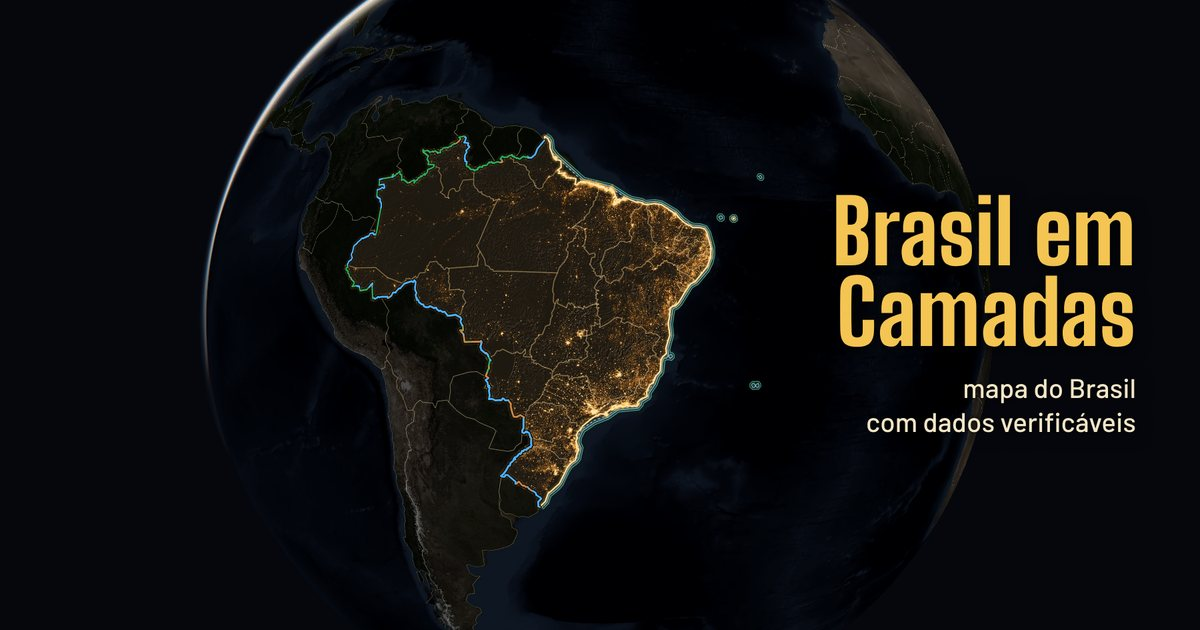
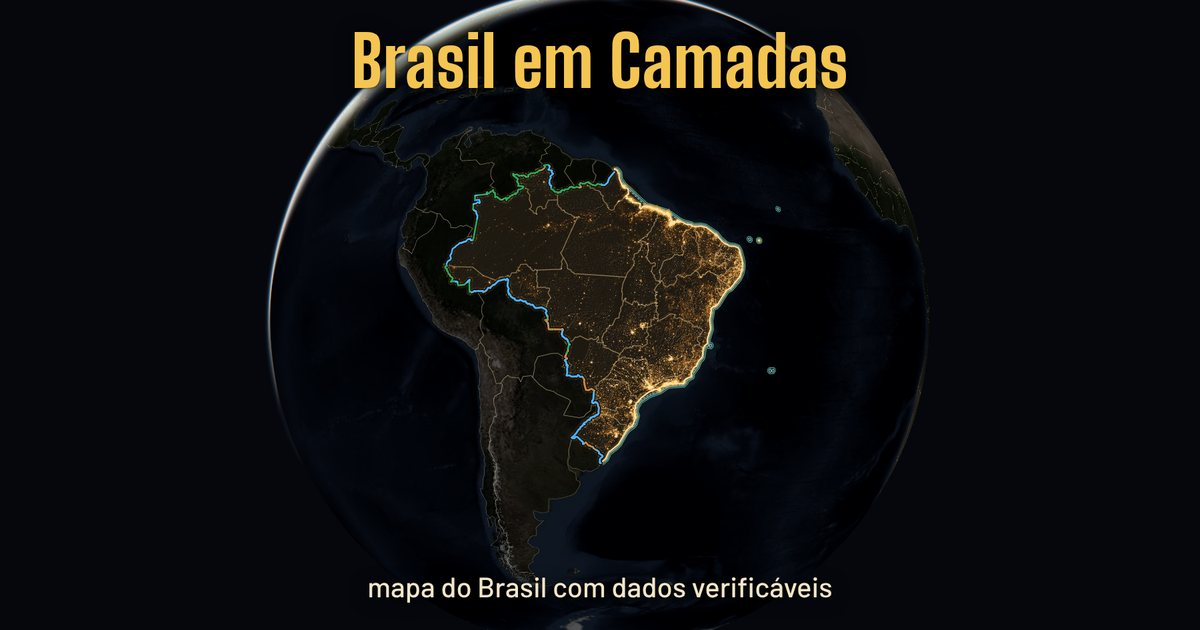
Busca, degrau 4 no ar: páginas por estado na busca; prévia de compartilhamento nova (versão c)
Aprovado pelo Edu em 09/11/2026: PREVIA_ESTADOS = False (as 28 páginas de estados/ saem sem noindex, entram no
sitemap, que passa a 34 endereços, e no llms.txt; "Estados" no menu das páginas de texto) e o link "Estados em
números" no rodapé dos dois mapas, no HTML (3D v57, 2D v55). Imagem de compartilhamento trocada pela versão c, com
o nome e a frase dentro do quadrado que o WhatsApp mostra; o endereço da imagem ganhou ?v=2 para os aplicativos
buscarem a nova.

Claude-Session: https://claude.ai/code/session_016NTnUPWrBM1ARAhDSz9kxG

diff --git a/site/index.html b/site/index.html
@@ -17,7 +17,7 @@
 <meta property="og:title" content="Brasil em Camadas · mapa do Brasil com dados verificáveis">
 <meta property="og:description" content="Mapa interativo do Brasil por estado: população, agricultura, energia, transportes, internet e mais, com fonte, data e nível de confiança em cada dado.">
 <meta property="og:url" content="./">
-<meta property="og:image" content="previa/brasil-em-camadas.jpg">
+<meta property="og:image" content="previa/brasil-em-camadas.jpg?v=2">
 <meta property="og:image:type" content="image/jpeg">
 <meta property="og:image:width" content="1200">
 <meta property="og:image:height" content="630">
@@ -84,7 +84,7 @@
   <div class="apoio" id="apoio" hidden></div>
   <div class="sobre">
     <h2>Sobre o mapa</h2>
-    <p class="links-paginas"><a href="dados/">Dados para baixar</a> · <a href="metodologia/">Metodologia e fontes</a></p>
+    <p class="links-paginas"><a href="dados/">Dados para baixar</a> · <a href="metodologia/">Metodologia e fontes</a> · <a href="estados/">Estados em números</a></p>
     <p>Arraste para girar o globo, role para aproximar e segure o botão direito do mouse (ou use dois dedos) para inclinar. Se o seu aparelho tiver dificuldade com o globo, use a <a href="2d/">versão leve</a>.</p>
     <p>Imagem do planeta: NASA, Blue Marble com relevo e fundo do oceano, de domínio público. Altitude do terreno: Terrain Tiles, dados abertos hospedados pela Amazon. Rodovias, ferrovias e portos: IBGE, base cartográfica 1:250.000 (BC250, versão 2025). Países e relevo de reserva: Natural Earth, de domínio público. Contornos dos estados: IBGE, Malha Municipal 2025, simplificada para o mapa. População dos municípios, rebanhos e aquicultura: IBGE. Luzes à noite: NASA Black Marble, de domínio público; população: IBGE, Grade Estatística do Censo 2022 (quadrados de 1 km) e posição das sedes municipais (Localidades do Brasil 2022). Limites do mar (ZEE, mar territorial, zona contígua e plataforma continental estendida): Marine Regions, do instituto belga de pesquisa do mar VLIZ, licença CC-BY 4.0. Petróleo e gás (poços, produção, campos, plataformas, pré-sal, dutos, refinarias, unidades de gás natural e terminais de GNL): ANP, dados abertos do governo federal, de uso livre citando a fonte. Energia elétrica: usinas em operação da ANEEL (SIGA, o cadastro de geração, atualizado todo dia; no mapa, as de 1 MW ou mais; a soma dos estados inclui todas; Itaipu entra com a parte brasileira, 7.000 MW) e linhas de transmissão e subestações da EPE (Webmap do sistema elétrico existente); só a geração centralizada, sem os painéis solares de telhado. Telefonia celular (sinal 4G/5G e municípios com 5G): Anatel, dados abertos, licença CC-BY. Aeroportos: ANAC, dados abertos. Tráfego nos pedágios federais: ANTT, dados abertos, licença CC-BY. Pista dupla e fluxo nas rodovias federais: DNIT (Sistema Nacional de Viação e Plano Nacional de Contagem de Tráfego). Fronteira terrestre por tipo: IBGE (BC250 e grade de cobertura e uso da terra, 2020). Passagens de fronteira: IBGE, lista de cidades gêmeas (2024). Indústria de defesa: Ministério da Defesa, lista pública das empresas credenciadas. Motor do mapa: MapLibre, de código aberto. Letras do site: Barlow, Big Shoulders Display e JetBrains Mono (licença SIL OFL), guardadas no próprio site.</p>
     <p>Rodovias, ferrovias e portos vêm da base cartográfica do IBGE na escala 1:250.000 (BC250, versão 2025), em que o IBGE atualizou o número e a jurisdição das rodovias com dados do DNIT. Os trechos com sigla BR administrados pelos estados (em que a BR passa sobre uma rodovia estadual, ou que foram delegados ao estado) aparecem numa cor mais escura e ficam fora da soma das rodovias federais, como faz o DNIT. As ferrovias mostram as linhas existentes e, tracejadas, as em obras; ficam de fora metrôs e linhas abandonadas. Em parte das linhas (cerca de 4,6 mil km, inclusive trechos movimentados) a base não informa se estão em operação; a ficha separa os dois números. Os quilômetros por estado são medidos no desenho do mapa e são aproximados. Os aeroportos vêm da lista de aeródromos públicos da ANAC, com os passageiros embarcados e desembarcados nos 12 meses mais recentes dos dados estatísticos do transporte aéreo (quem faz conexão conta duas vezes, como nas estatísticas dos próprios aeroportos). A pista dupla vem do Sistema Nacional de Viação do DNIT (outubro de 2026); os trechos em obra de duplicação aparecem em cinza. O fluxo nas rodovias federais é o volume médio diário de veículos de 2025 (VMDa) que o DNIT estima por modelagem a partir de pontos de contagem; não é uma contagem em cada trecho. A largura da linha mostra os veículos por dia, e a cor, a parte de ônibus e caminhões.</p>
@@ -107,7 +107,7 @@
 <script src="3d/vendor/maplibre-gl.js?v=5.24.0"></script>
 <script src="icones.js?v=10"></script>
 <script src="periodos.js?v=1"></script>
-<script src="3d/app3d.js?v=56"></script>
+<script src="3d/app3d.js?v=57"></script>
 <!-- contagem de visitas: GoatCounter, sem cookies e sem guardar o IP (script guardado no próprio site) -->
 <script data-goatcounter="https://brasilemcamadas.goatcounter.com/count" async src="vendor/count.js?v=1"></script>
 </body>

diff --git a/site/2d/index.html b/site/2d/index.html
@@ -17,7 +17,7 @@
 <meta property="og:title" content="Brasil em Camadas · versão leve">
 <meta property="og:description" content="Versão leve, em 2D, do mapa do Brasil por estado: população, agricultura, energia, transportes, internet e mais, com fonte, data e nível de confiança em cada dado.">
 <meta property="og:url" content="./">
-<meta property="og:image" content="../previa/brasil-em-camadas.jpg">
+<meta property="og:image" content="../previa/brasil-em-camadas.jpg?v=2">
 <meta property="og:image:type" content="image/jpeg">
 <meta property="og:image:width" content="1200">
 <meta property="og:image:height" content="630">
@@ -64,7 +64,7 @@
   <div class="apoio" id="apoio" hidden></div>
   <div class="sobre">
     <h2>Sobre os dados</h2>
-    <p class="links-paginas"><a href="../dados/">Dados para baixar</a> · <a href="../metodologia/">Metodologia e fontes</a></p>
+    <p class="links-paginas"><a href="../dados/">Dados para baixar</a> · <a href="../metodologia/">Metodologia e fontes</a> · <a href="../estados/">Estados em números</a></p>
     <p>Esta é a versão leve, em 2D, para aparelhos que não conseguem abrir o globo. A versão completa, com relevo 3D e luzes à noite, está na <a href="../">página principal</a>.</p>
     <p>Rodovias, ferrovias e portos vêm da base cartográfica do IBGE na escala 1:250.000 (BC250, versão 2025), em que o IBGE atualizou o número e a jurisdição das rodovias com dados do DNIT. Os trechos com sigla BR administrados pelos estados (em que a BR passa sobre uma rodovia estadual, ou que foram delegados ao estado) aparecem numa cor mais escura e ficam fora da soma das rodovias federais, como faz o DNIT. As ferrovias mostram as linhas existentes e, tracejadas, as em obras; ficam de fora metrôs e linhas abandonadas. Em parte das linhas (cerca de 4,6 mil km, inclusive trechos movimentados) a base não informa se estão em operação; a ficha separa os dois números. Os quilômetros por estado são medidos no desenho do mapa e são aproximados. Os aeroportos vêm da lista de aeródromos públicos da ANAC, com os passageiros embarcados e desembarcados nos 12 meses mais recentes dos dados estatísticos do transporte aéreo (quem faz conexão conta duas vezes, como nas estatísticas dos próprios aeroportos). A pista dupla vem do Sistema Nacional de Viação do DNIT (outubro de 2026); os trechos em obra de duplicação aparecem em cinza. O fluxo nas rodovias federais é o volume médio diário de veículos de 2025 (VMDa) que o DNIT estima por modelagem a partir de pontos de contagem; não é uma contagem em cada trecho. A largura da linha mostra os veículos por dia, e a cor, a parte de ônibus e caminhões.</p>
     <p>Fronteira terrestre: a linha da fronteira com os vizinhos aparece na cor do tipo, em rio ou lagoa, seca, ou seca na mata. Rios e lagoas vêm da hidrografia do IBGE (BC250); a mata, da grade de cobertura e uso da terra do IBGE (2020), quando metade ou mais da área em volta é vegetação florestal. A divisão oficial é só entre fronteira molhada e seca; a mata mostra o que cobre o trecho seco. As passagens de fronteira são as 33 cidades gêmeas da lista oficial do IBGE (Portaria MDR nº 2.507/2021), com a cidade do outro lado e o tipo de ligação (ponte, balsa, linha seca) quando há fonte, citada no próprio mapa; as estradas do outro lado vêm do Natural Earth e são um desenho aproximado.</p>
@@ -87,7 +87,7 @@
 <script src="vendor/d3.min.js?v=7.8.5"></script>
 <script src="../icones.js?v=10"></script>
 <script src="../periodos.js?v=1"></script>
-<script src="app.js?v=54"></script>
+<script src="app.js?v=55"></script>
 <!-- contagem de visitas: GoatCounter, sem cookies e sem guardar o IP (script guardado no próprio site) -->
 <script data-goatcounter="https://brasilemcamadas.goatcounter.com/count" async src="../vendor/count.js?v=1"></script>
 </body>

diff --git a/site/3d/app3d.js b/site/3d/app3d.js
@@ -1782,9 +1782,6 @@ const FOGUETE = `<path class="chama" d="M10 27.2Q12 34 14 27.2z" fill="#ffc45a"/
   }
   document.getElementById("tiers").innerHTML = Object.values(NIVEL)
     .map(([c, t, d]) => `<div><span><span class="pill ${c}">${t}</span></span><span>${d}</span></div>`).join("");
-  /* versão de teste: as páginas por estado, ainda em prévia (fora da busca) */
-  const linksPg = document.querySelector(".foot .links-paginas");
-  if (PER && linksPg) linksPg.insertAdjacentHTML("beforeend", ` · em teste: <a href="${new URL("../estados/", AQUI).href}">Estados em números</a>`);
 
   /* ---------- abertura ---------- */
   ajustarCabecalho(); controls(); ficha();

diff --git a/site/2d/app.js b/site/2d/app.js
@@ -1187,9 +1187,6 @@ function rewind(f) {
   }
   document.getElementById("tiers").innerHTML = Object.values(NIVEL)
     .map(([c, t, d]) => `<div><span><span class="pill ${c}">${t}</span></span><span>${d}</span></div>`).join("");
-  /* versão de teste: as páginas por estado, ainda em prévia (fora da busca) */
-  const linksPg = document.querySelector(".foot .links-paginas");
-  if (PER && linksPg) linksPg.insertAdjacentHTML("beforeend", ` · em teste: <a href="../estados/">Estados em números</a>`);
 
   /* ---------- abertura ---------- */
   layout(); render(); ficha();

diff --git a/scripts/gerar_paginas.py b/scripts/gerar_paginas.py
@@ -31,9 +31,9 @@ from pathlib import Path
 # aprovar, em 09/11/2026). Desde então, False: as páginas entram na busca e o rodapé do mapa tem os links para elas.
 PREVIA = False
 
-# Páginas por estado ("<estado> em números", degrau 4 da busca): prévia até o Edu aprovar (noindex, fora do sitemap e do
-# llms.txt, sem link no menu das outras páginas; o link para elas só aparece na versão de teste do mapa). Depois: False.
-PREVIA_ESTADOS = True
+# Páginas por estado ("<estado> em números", degrau 4 da busca): com True, prévia (noindex, fora do sitemap e do llms.txt,
+# sem link no menu das outras páginas). Aprovadas pelo Edu em 09/11/2026: False.
+PREVIA_ESTADOS = False
 
 VERSAO_ESTILO = "54"     # style.css (o mesmo número do mapa)
 VERSAO_PAGINAS = "2"     # paginas/paginas.css e paginas/paginas.js
@@ -131,7 +131,7 @@ def moldura(prof, titulo, descricao, corpo, atual, F, jsonld=None, previa=None):
 <meta property="og:title" content="{e(titulo)} · Brasil em Camadas">
 <meta property="og:description" content="{e(descricao)}">
 <meta property="og:url" content="./">
-<meta property="og:image" content="{r}previa/brasil-em-camadas.jpg">
+<meta property="og:image" content="{r}previa/brasil-em-camadas.jpg?v=2">
 <meta property="og:image:type" content="image/jpeg">
 <meta property="og:image:width" content="1200">
 <meta property="og:image:height" content="630">

diff --git a/README.md b/README.md
@@ -50,7 +50,7 @@ scripts/
                               sitemap.xml e põe o endereço completo no link canônico e na prévia de compartilhamento
                               (o endereço fica em dados/endereco_do_site.txt)
   gerar_paginas.py            as páginas "Dados para baixar" (uma por conjunto do acervo, com a ficha schema.org Dataset),
-                              "Metodologia e fontes", "Estados em números" (uma por estado; em prévia) e o llms.txt,
+                              "Metodologia e fontes", "Estados em números" (uma por estado) e o llms.txt,
                               feitas do fontes.json, dos arquivos de site/data/ e das fichas do acervo
   acervo/             robôs do acervo (lavouras_ibge.py, banda_larga_anatel.py, velocidade_celular_anatel.py), a parte comum
                       (comum.py) e o verificador que barra a publicação se um pacote já publicado mudar (verificar.py)
